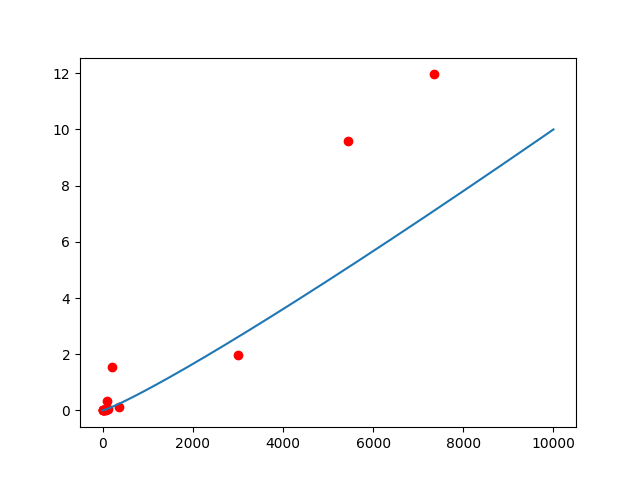
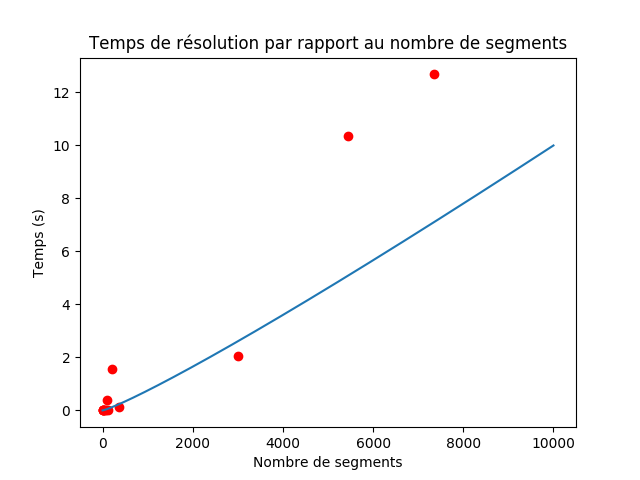
Rapport

diff --git a/rapport.md b/rapport.md
@@ -9,11 +9,11 @@
 
 #### Vue générale
 
-Le projet Bentley Ottmann consiste en premier lieu à implémenter l'algorithme de Bentley Ottmann qui permet de calculer efficacement des intersections de segments dans un plan, en comparaison avec un algorithme "naïf" qui comparerait les segments deux à deux.
+Le projet Bentley Ottmann consiste en premier lieu à implémenter l'algorithme de Bentley Ottmann qui permet de calculer efficacement des intersections de segments dans un plan, en comparaison avec un algorithme "naïf" qui compare les segments deux à deux.
 
 Dans la suite de ce rapport sont détaillés les choix techniques faits afin d'implémenter cet algorithme, une prise de performance sur des exemples fournis, une discussion autour de la compléxité de l'algorithme ainsi qu'un retour d'expérience.
 
-L'objectif principal, qui est d'implémenter l'algorithme de Bentley Ottmann n'est cependant pas complètement atteint puisque certaines intersections ne sont pas calculées. Ce point sera détaillé plus longuement dans le retour d'expérience.
+L'objectif principal, qui est d'implémenter l'algorithme de Bentley Ottmann n'est cependant pas complètement atteint puisque certaines intersections ne sont pas calculées. Ce point sera plus longuement détaillé dans le retour d'expérience.
 
 ----
 
@@ -31,6 +31,16 @@ L'objectif principal, qui est d'implémenter l'algorithme de Bentley Ottmann n'e
 - Un point important de l'algorithme est la gestion des "segments en vie". Il représentent les segments pouvant effectuer une intersection. Afin de les stocker, nous avons utilisé une SortedList, du module SortedContainers, afin de remplacer une structure d'arbre. Cette structure est couplée avec une fonction de calcul de clé, qui est appelée à chaque opération sur la liste des segments vivants.
 
 
-- Enfin, l'objet Solution permet en outre de stocker la solution, mais permet aussi d'effectuer divers tracés. Cela permet notamment lors du débogage, de tracer l'algorithme étape par étape, en visualisant les segments en vie, le point courant, et les intrsections au fur et à mesure de l'avancement de l'algorithme.
+- Enfin, l'objet Solution permet en outre de stocker la solution (i.e. les intersections), mais permet aussi d'effectuer divers tracés. Cela permet notamment lors du débogage, de tracer l'algorithme étape par étape, en visualisant les segments en vie, le point courant, et les intrsections au fur et à mesure de l'avancement de l'algorithme.
 
 ###### Prise de performance
+
+Ci-dessous le graphe du temps de résolution sur les différents tests fournis:
+
+![](tests.png)
+
+La droite (en bleu) approche la compléxité théorique de l'algorithme en $O(n.log(n))$. En effet
+
+----
+
+#### Rapport d'expérience
